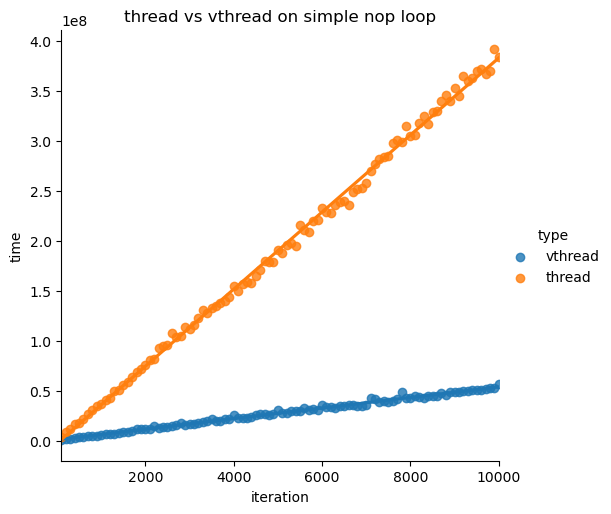
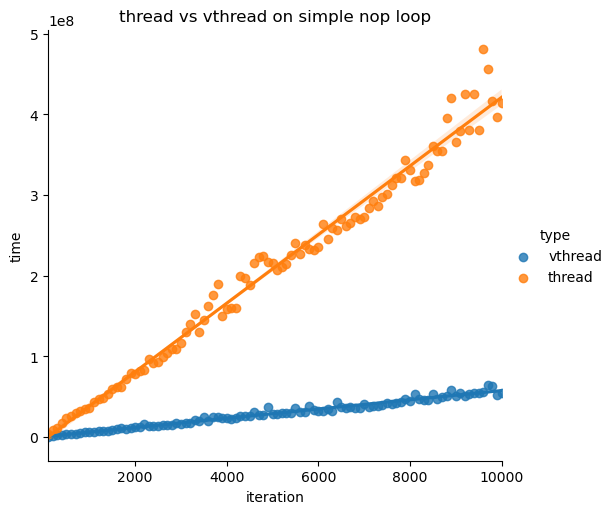
Update

diff --git a/figs.py b/figs.py
@@ -38,17 +38,17 @@ def run_loom_plot(start, end, step, title, out):
 
 
 if __name__ == '__main__':
-    # assert run([verify_get_loom('javac'), 'bench/loom/Main.java'], cwd='src').returncode == 0
-    # run_loom_plot(100, 10000, 100, 'thread vs vthread on simple nop loop', 'loom.png')
-    #
-    # assert run([verify_get_loom('javac'), 'bench/Main.java'], cwd='src').returncode == 0
-    # assert run(['cp', '-r', 'bench', str(SVM_HOME)], cwd='src').returncode == 0
-    # assert run(
-    #     [verify_get_mx(), 'native-image',
-    #      '-H:Optimize=0', '-H:+UseLoom',
-    #      'bench.Main'], cwd=SVM_HOME,
-    #     env={'JAVA_HOME': str(JAVA_HOME.resolve()), 'PATH': os.getenv('PATH')}
-    # ).returncode == 0
+    assert run([verify_get_loom('javac'), 'bench/loom/Main.java'], cwd='src').returncode == 0
+    run_loom_plot(100, 10000, 100, 'thread vs vthread on simple nop loop', 'loom.png')
+
+    assert run([verify_get_loom('javac'), 'bench/Main.java'], cwd='src').returncode == 0
+    assert run(['cp', '-r', 'bench', str(SVM_HOME)], cwd='src').returncode == 0
+    assert run(
+        [verify_get_mx(), 'native-image',
+         '-H:Optimize=0', '-H:+UseLoom',
+         'bench.Main'], cwd=SVM_HOME,
+        env={'JAVA_HOME': str(JAVA_HOME.resolve()), 'PATH': os.getenv('PATH')}
+    ).returncode == 0
 
     # cont
     results = []
@@ -88,26 +88,50 @@ if __name__ == '__main__':
     fig.set(title='nop vthread')
     fig.savefig('vthread.png')
 
-    # # yield depth
-    # results = []
-    # for i in range(1, 15):
-    #     r = run([verify_get_loom('java'), 'bench/Main', 'loom', 'yield-deep-cont', '10000', f'{i}'],
-    #             cwd='src', stdout=PIPE)
-    #     loom_results = r.stdout.decode().strip().split('\n')
-    #
-    #     r = run(['./bench.main', 'svm', 'yield-deep-cont', '10000', f'{i}'],
-    #             cwd=SVM_HOME, stdout=PIPE)
-    #     svm_results = r.stdout.decode().strip().split('\n')
-    #
-    #     results.append(['loom', i, int(loom_results[1])])
-    #     results.append(['svm', i, int(svm_results[1])])
-    #
-    # data = pd.DataFrame(results, columns=['type', 'depth', 'time'])
-    # loom_data = data[data['type'] == 'loom']
-    #
-    # fig = sns.lmplot(x="depth", y="time", hue="type", data=data)
-    # fig.set(title='yield at every level')
-    # fig.savefig('yield.png')
-    # fig = sns.lmplot(x="depth", y="time", hue="type", data=loom_data)
-    # fig.set(title='yield at every level')
-    # fig.savefig('yield-loom.png')
+    # yield cont
+    results = []
+    for i in range(1, 15):
+        r = run([verify_get_loom('java'), 'bench/Main', 'loom', 'yields-cont', '10000', f'{i}'],
+                cwd='src', stdout=PIPE)
+        loom_results = r.stdout.decode().strip().split('\n')
+
+        r = run(['./bench.main', 'svm', 'yields-cont', '10000', f'{i}'],
+                cwd=SVM_HOME, stdout=PIPE)
+        svm_results = r.stdout.decode().strip().split('\n')
+
+        results.append(['loom', i, int(loom_results[1])])
+        results.append(['svm', i, int(svm_results[1])])
+
+    data = pd.DataFrame(results, columns=['type', 'depth', 'time'])
+    loom_data = data[data['type'] == 'loom']
+
+    fig = sns.lmplot(x="depth", y="time", hue="type", data=data)
+    fig.set(title='yield at every level')
+    fig.savefig('yield-cont.png')
+    fig = sns.lmplot(x="depth", y="time", hue="type", data=loom_data)
+    fig.set(title='yield at every level')
+    fig.savefig('yield-cont-loom.png')
+
+    # yield vthread
+    results = []
+    for i in range(1, 15):
+        r = run([verify_get_loom('java'), 'bench/Main', 'loom', 'yields-cont', '10000', f'{i}'],
+                cwd='src', stdout=PIPE)
+        loom_results = r.stdout.decode().strip().split('\n')
+
+        r = run(['./bench.main', 'svm', 'yields-cont', '10000', f'{i}'],
+                cwd=SVM_HOME, stdout=PIPE)
+        svm_results = r.stdout.decode().strip().split('\n')
+
+        results.append(['loom', i, int(loom_results[1])])
+        results.append(['svm', i, int(svm_results[1])])
+
+    data = pd.DataFrame(results, columns=['type', 'depth', 'time'])
+    loom_data = data[data['type'] == 'loom']
+
+    fig = sns.lmplot(x="depth", y="time", hue="type", data=data)
+    fig.set(title='yield at every level')
+    fig.savefig('yield-vthread.png')
+    fig = sns.lmplot(x="depth", y="time", hue="type", data=loom_data)
+    fig.set(title='yield at every level')
+    fig.savefig('yield-vthread-loom.png')

diff --git a/src/bench/Main.java b/src/bench/Main.java
@@ -45,6 +45,14 @@ public class Main {
                 if (warmup) runYieldsCont(20000, 10);
                 System.out.println(runYieldsCont(Integer.parseInt(args[2]), Integer.parseInt(args[3])));
             }
+            case "yield-deep-vthread" -> {
+                if (warmup) runYieldDeepVThread(20000, 10);
+                System.out.println(runYieldDeepVThread(Integer.parseInt(args[2]), Integer.parseInt(args[3])));
+            }
+            case "yields-vthread" -> {
+                if (warmup) runYieldsVThread(20000, 10);
+                System.out.println(runYieldsVThread(Integer.parseInt(args[2]), Integer.parseInt(args[3])));
+            }
             default -> System.out.println("unsupported bench: " + args[0] + ".");
         }
     }
@@ -118,6 +126,24 @@ public class Main {
             cont = Yielder.continuation(2, depth, true);
             while (!cont.isDone())
                 cont.run();
+        }
+
+        return (System.nanoTime() - tStart) / i;
+    }
+
+    private static long runYieldDeepVThread(int i, int depth) throws InterruptedException {
+        long tStart = System.nanoTime();
+        for (int j = 0; j < i; j++) {
+            Thread.builder().virtual().task(new Yielder(2, depth, false)).start().join();
+        }
+
+        return (System.nanoTime() - tStart) / i;
+    }
+
+    private static long runYieldsVThread(int i, int depth) throws InterruptedException {
+        long tStart = System.nanoTime();
+        for (int j = 0; j < i; j++) {
+            Thread.builder().virtual().task(new Yielder(2, depth, true)).start().join();
         }
 
         return (System.nanoTime() - tStart) / i;
